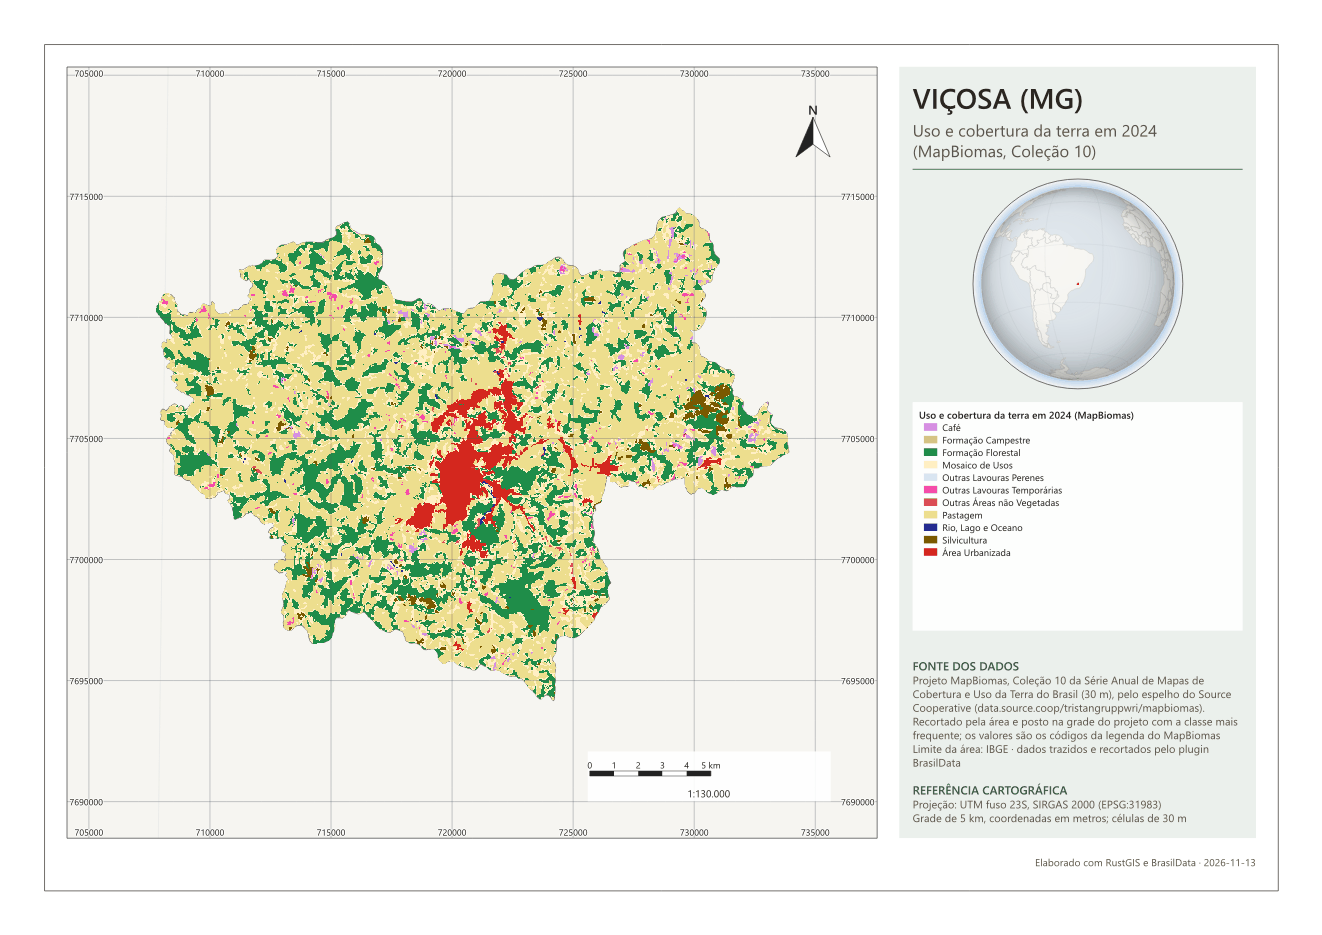
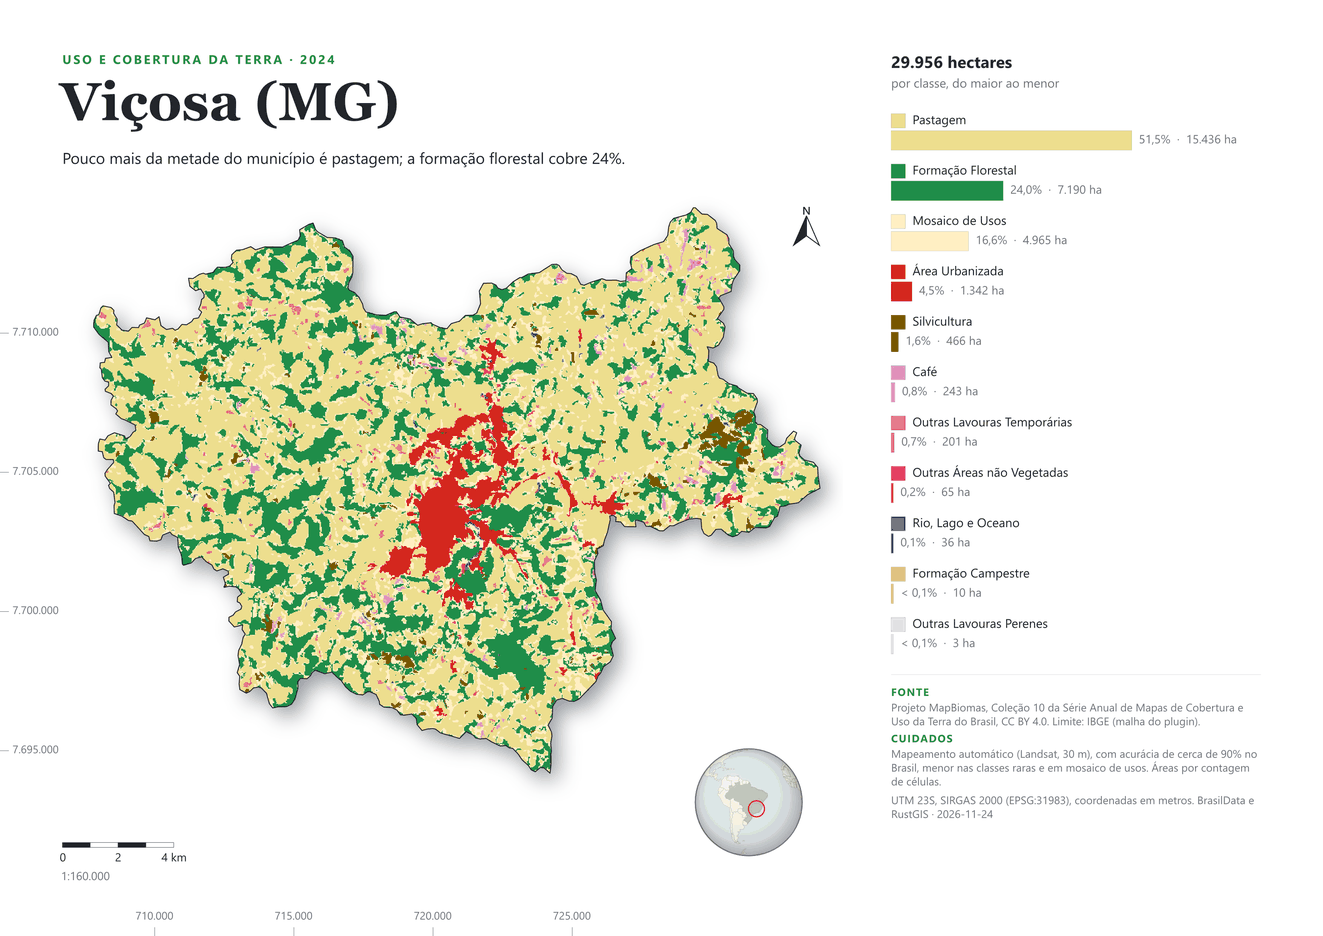
Mapas exemplo modernos: elevação, pivôs, MapBiomas e vento

diff --git a/scripts/gerar.py b/scripts/gerar.py
@@ -1550,11 +1550,15 @@ AREAS_EXEMPLO = {
     "zona-da-mata": ("meso:3112", "Zona da Mata (MG)"),
     "minas-gerais": ("uf:MG", "Minas Gerais"),
     "ceara": ("uf:CE", "Ceará"),
+    "nordeste": ("reg:2", "Região Nordeste"),
+    "barreiras": ("micro:29001", "microrregião de Barreiras (BA)"),
+    # um retângulo, que não é um nó do painel (só nas folhas feitas à parte)
+    "mantiqueira": ("", "Serra da Mantiqueira (MG, RJ e SP)"),
     "brasil": ("br", "Brasil"),
 }
 # Os mapas exemplo com a folha feita à parte no RustGIS (o dado é o do plugin; a folha não é a do botão
 # Layout, e o scripts/mapas_exemplo.py não os refaz).
-FOLHAS_PROPRIAS = {"luzes-noturnas", "nisar-cor"}
+FOLHAS_PROPRIAS = {"luzes-noturnas", "nisar-cor", "elevacao", "ana-pivos", "mapbiomas-cobertura", "vento-50m"}
 # Os comandos que não trazem camada de dados: sem ficha.
 SEM_FICHA = {"area-selecao", "area-desenho", "area-municipio", "grade", "painel", "escolher-area", "layout", "fontes", "atualizacao", "sobre", "sobre-autoria", "sobre-fontes", "sobre-contribuir", "indicadores", "amostra-aleatoria", "amostra-estratificada", "amostra-sistematica"}
 # Onde ficam as fichas no repositório.

diff --git a/docs/camadas/ana-pivos.md b/docs/camadas/ana-pivos.md
@@ -4,9 +4,9 @@
 
 Os pivôs centrais de irrigação mapeados pela ANA e pela Embrapa em imagens de satélite.
 
-![Mapa exemplo: Pivôs centrais mapeados (ANA) em Luís Eduardo Magalhães (BA)](ana-pivos.png)
+![Mapa exemplo: Pivôs centrais mapeados (ANA) em microrregião de Barreiras (BA)](ana-pivos.png)
 
-*Mapa exemplo: Luís Eduardo Magalhães (BA), feito com o plugin.*
+*Mapa exemplo: microrregião de Barreiras (BA), com o dado do plugin e a folha feita à parte no RustGIS.*
 
 | | |
 |---|---|

diff --git a/docs/camadas/elevacao.md b/docs/camadas/elevacao.md
@@ -4,9 +4,9 @@
 
 O modelo digital de superfície Copernicus GLO-30: a altitude do terreno com a vegetação e as construções.
 
-![Mapa exemplo: Elevação (Copernicus GLO-30) em Viçosa (MG)](elevacao.png)
+![Mapa exemplo: Elevação (Copernicus GLO-30) em Serra da Mantiqueira (MG, RJ e SP)](elevacao.png)
 
-*Mapa exemplo: Viçosa (MG), feito com o plugin.*
+*Mapa exemplo: Serra da Mantiqueira (MG, RJ e SP), com o dado do plugin e a folha feita à parte no RustGIS.*
 
 | | |
 |---|---|

diff --git a/docs/camadas/vento-50m.md b/docs/camadas/vento-50m.md
@@ -4,9 +4,9 @@
 
 A velocidade média do vento a 50 m de altura, da reanálise MERRA-2.
 
-![Mapa exemplo: Vento a 50 m (NASA POWER) em Minas Gerais](vento-50m.png)
+![Mapa exemplo: Vento a 50 m (NASA POWER) em Região Nordeste](vento-50m.png)
 
-*Mapa exemplo: Minas Gerais, feito com o plugin.*
+*Mapa exemplo: Região Nordeste, com o dado do plugin e a folha feita à parte no RustGIS.*
 
 | | |
 |---|---|

diff --git a/docs/camadas/mapbiomas-cobertura.md b/docs/camadas/mapbiomas-cobertura.md
@@ -6,7 +6,7 @@ O uso e a cobertura da terra do MapBiomas: floresta, savana, campo, pastagem, ag
 
 ![Mapa exemplo: Uso e cobertura (MapBiomas) em Viçosa (MG)](mapbiomas-cobertura.png)
 
-*Mapa exemplo: Viçosa (MG), feito com o plugin.*
+*Mapa exemplo: Viçosa (MG), com o dado do plugin e a folha feita à parte no RustGIS.*
 
 | | |
 |---|---|
